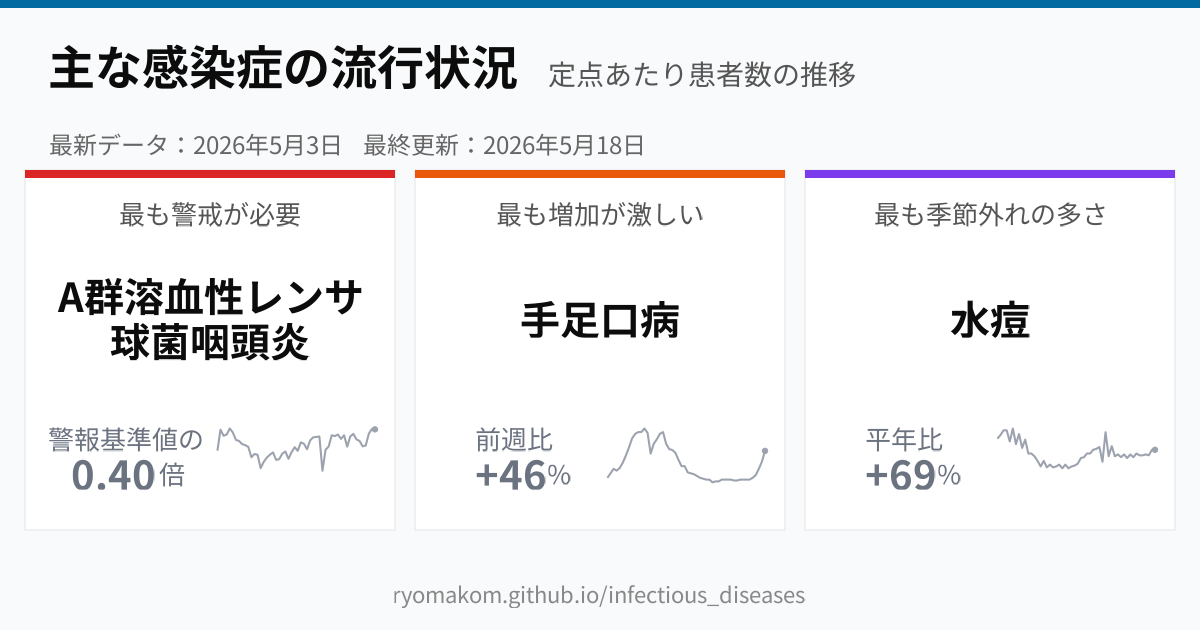
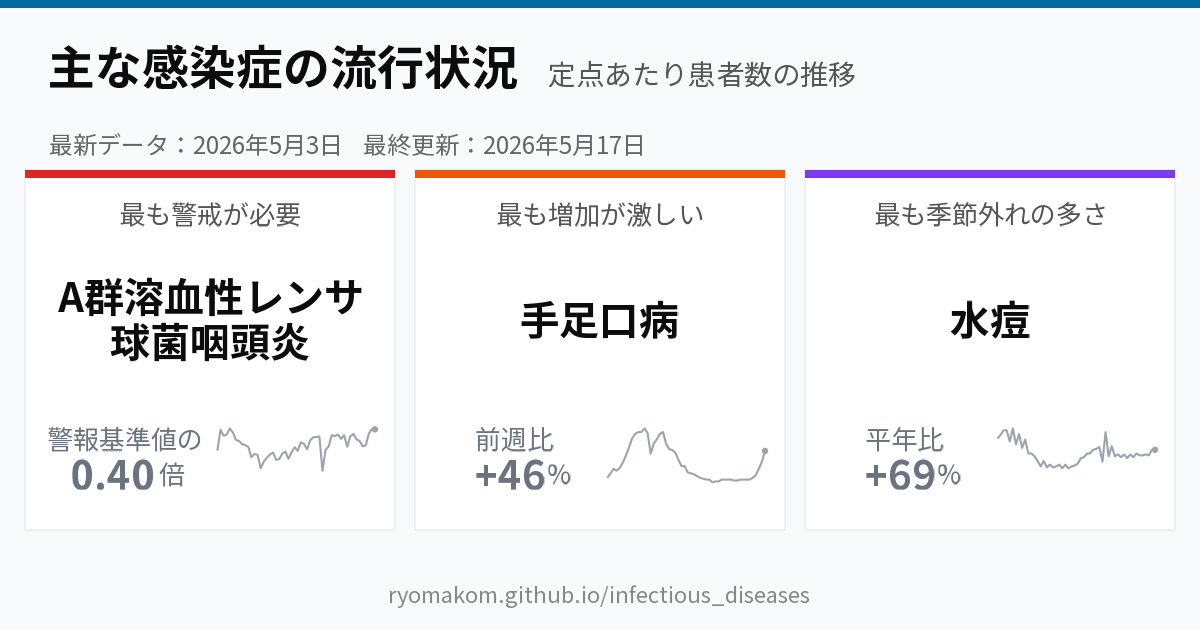
Fix chart resize: correct SVG sizing and trigger redraw on window resize
- Remove viewBox/preserveAspectRatio="none" from focus and context SVGs;
  use fixed px width/height to eliminate text distortion on resize
- Measure SVG width from leftCharts container (not card element) to
  correctly account for card padding (was 20px short, causing overflow)
- Add window.innerWidth to chart render signature so resize events
  actually trigger chart redraws (previously signature was unchanged
  on resize, so charts were never redrawn)
- Set left-charts overflow:hidden to clip SVG during resize animation
  without distorting text

diff --git a/docs/chart.js b/docs/chart.js
@@ -226,7 +226,8 @@ function buildChartRenderSignature(category, catData, selectedPrefs) {
     catData.length,
     dateMin,
     dateMax,
-    sumValue.toFixed(6)
+    sumValue.toFixed(6),
+    window.innerWidth
   ].join("::");
 }
 
@@ -430,15 +431,13 @@ function createChartContainer(category, data, focusMargin, focusHeight, FOCUS_OU
   const wrapper = container.append("div").attr("class", "chart-wrapper");
   const leftCharts = wrapper.append("div").attr("class", "left-charts");
 
-  const paddingLR = 20;
-  const cardInnerW = Math.max(160, container.node().clientWidth - paddingLR);
+  const cardInnerW = Math.max(160, leftCharts.node().clientWidth);
   const totalFocusW = cardInnerW;
   const focusWidth = Math.max(1, totalFocusW - focusMargin.left - focusMargin.right);
 
   const svgFocusRoot = leftCharts.append("svg")
     .attr("class", "svg-content chart-svg")
-    .attr("viewBox", `0 0 ${totalFocusW} ${FOCUS_OUTER_H}`)
-    .attr("preserveAspectRatio", "none")
+    .attr("width", totalFocusW)
     .attr("height", FOCUS_OUTER_H);
 
   const clipId = "clip-" + cssSafe(category);
@@ -881,8 +880,7 @@ function drawBrush(ctx) {
   const xAxisContext = d3.axisBottom(xContext).ticks(d3.timeYear.every(3)).tickFormat(d => `${d.getFullYear()}年`);
   const svgContext = sliderWrapper.append("svg")
     .attr("class", "svg-content")
-    .attr("viewBox", `0 0 ${totalCtxW} ${totalCtxH}`)
-    .attr("preserveAspectRatio", "none")
+    .attr("width", totalCtxW)
     .attr("height", totalCtxH)
     .append("g")
     .attr("transform", `translate(${contextMargin.left},${contextMargin.top})`);

diff --git a/docs/style.css b/docs/style.css
@@ -2762,7 +2762,7 @@ header::after{
 .left-charts{
   flex: 1 1 auto;
   min-width: 0;
-  overflow: visible;
+  overflow: hidden;
 }
 
 .chart-legend{
@@ -2773,7 +2773,6 @@ header::after{
 }
 
 .chart-svg{
-  width: 100%;
   margin-bottom: 12px;
 }
 
@@ -2807,7 +2806,6 @@ header::after{
 
 .svg-content{
   display: block;
-  width: 100%;
 }
 
 .chart svg{